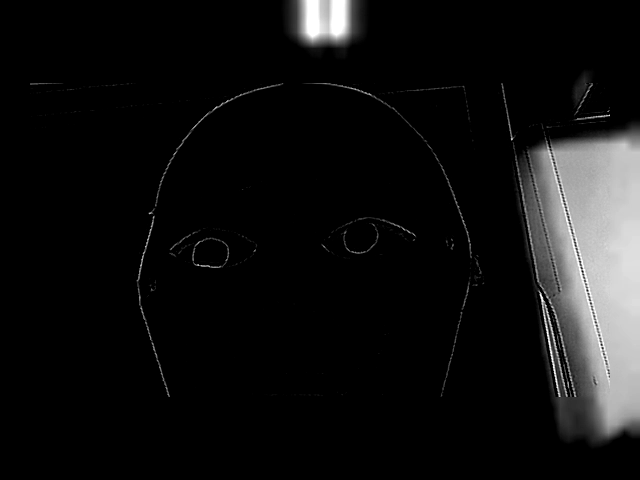
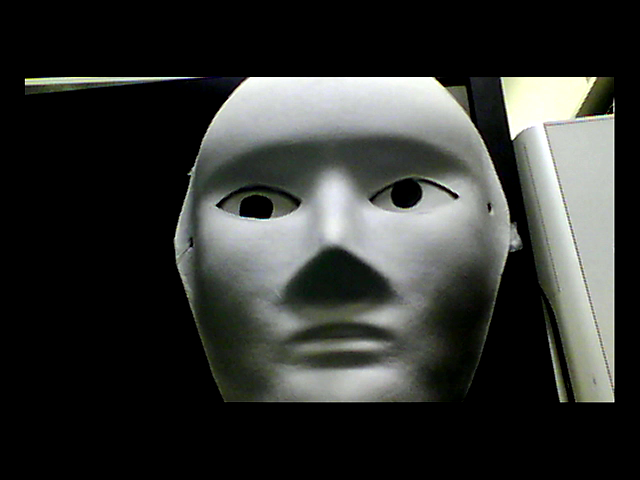
継続して顔検出できるようになった

diff --git a/rtsp_sample.py b/rtsp_sample.py
@@ -183,19 +183,17 @@ if get_flug == 1:
             #ループ回数を表示
             count = count +1
             print(count)
-    #        process_image(_image)
-            _image = client.read()
-            #_image.show()
-            im = np.asarray(_image)[:, :, ::-1]
-    #        image = cv2.cvtColor(_image, cv2.COLOR_RGB2BGR)
-            cv2.imshow('flir', im)
+            #_image = client.read()
+            #im = np.asarray(_image)[:, :, ::-1]
+            #cv2.imshow('flir', im)
             key=cv2.waitKey(1)
             #       key=input(block=False)
             #フラグが1の時にはカラー画像(顔検出)
             if flug==1:
                 testENIP(1)
+                print("RGB画像に切り替え中．．．")
+                time.sleep(1)
                 _image = client.read()
-                #_image.show()
                 im = np.asarray(_image)[:, :, ::-1]
                 cv2.imshow('flir', im)
                 #r = requests.get(vis_uri)
@@ -218,11 +216,11 @@ if get_flug == 1:
                 print("顔検出開始")
                 facerect = cascade.detectMultiScale(
                     gray,
-                    scaleFactor=1.2,
+                    scaleFactor=1.1,
                     minNeighbors=3,
                     minSize=(10, 10)
                 )
-                color = (255, 255, 255) #白
+                color = (0, 255, 0) #緑
                 # 検出した場合
                 print("検出結果=")
                 print(facerect)
@@ -230,22 +228,36 @@ if get_flug == 1:
                     print("顔面検出成功")
 
                     #検出した顔を囲む矩形の作成
-                    for rect in facerect:
-                        cv2.rectangle(im, tuple(rect[0:2]),tuple(rect[0:2]+rect[2:4]), color, thickness=2)
+                    for x,y,w,h in facerect:
+                        face_gray = gray[y: y + h, x: x + w]
+                        print("face_gray.shape==")
+                        print(face_gray.shape)
+                        cv2.rectangle(
+                            im,
+                            (x, y),
+                            (x + w, y + h),
+                            (255, 255, 255),
+                            thickness=2
+                        )
 
                     #認識結果の表示
-                    cv2.imshow('flir', im)
-                    cv2.imwrite('./result/test1_detect.png', im)
+                    #cv2.imshow('flir', im)
+                    #cv2.imwrite('./result/test1_detect.png', im)
                 time.sleep(2)
 
 
             else:
                 testENIP(2)
+                print("IR画像に切り替え中．．．")
+                time.sleep(1)
+                _image = client.read()
+                im = np.asarray(_image)[:, :, ::-1]
                 cv2.imshow('flir', im)
+                print("testENIP == 2 \n")
                 time.sleep(2)
                 #r = requests.get(ir_uri)
                 flug=1
-                print("testENIP == 2 \n")
+
             if key ==ord('q'):
                 break
 """
